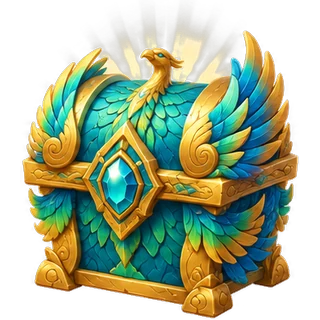
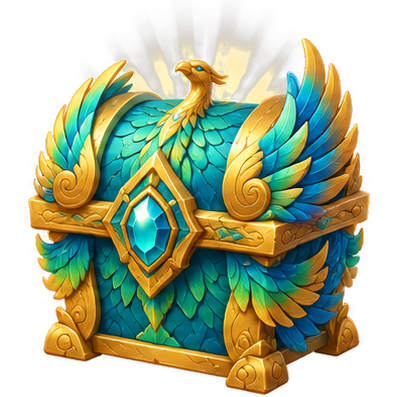
Art: keep generated images at native resolution (lossless sprites, q95 backgrounds)
Chests, badges and icons were downscaled and lossy-compressed; arenas were
resized to 1024. Now every asset keeps its source resolution; open chests are
scaled relative to the closed one so the chest does not jump when it opens.

Claude-Session: https://claude.ai/code/session_019XH8mXjFoYk68HCGK6M3sz

diff --git a/apps/client/src/legacy/16-chest-art.js b/apps/client/src/legacy/16-chest-art.js
@@ -17,7 +17,7 @@ function gemShape(c,x,y,r,col){c.save();c.shadowColor=col;c.shadowBlur=r*1.6;c.f
 function drawChest(c,x,y,s,tier,o){
   o=o||{};
   const art=artImg(o.open>0.35?`chest-${tier}-open`:`chest-${tier}`);
-  if(art){const bot=y+s*0.3,D=s*1.18;c.save();c.fillStyle='rgba(0,0,0,.38)';c.beginPath();c.ellipse(x,bot+s*0.015,s*0.5,s*0.06,0,0,TAU);c.fill();
+  if(art){const base=artImg(`chest-${tier}`)||art,bot=y+s*0.3,D=s*1.18*art.width/base.width;c.save();c.fillStyle='rgba(0,0,0,.38)';c.beginPath();c.ellipse(x,bot+s*0.015,s*0.5,s*0.06,0,0,TAU);c.fill();
     c.drawImage(art,x-D/2,bot-D*0.86,D,D);c.restore();return}
   const P=CHEST_PAL[tier],open=o.open||0,w=s,bh=s*0.38,lh=s*0.3,bx=x-w/2,bot=y+s*0.3,top=bot-bh,rad=s*0.05,lw=Math.max(1,s*0.016);
   const cbw=w*0.1,cbx=[bx+w*0.07,bx+w*0.93-cbw];

diff --git a/tools/art/cut.py b/tools/art/cut.py
@@ -76,37 +76,39 @@ def trim(im: Image.Image) -> Image.Image:
     return im.crop(box) if box else im
 
 
-def fit(im: Image.Image, size: int) -> Image.Image:
-    """Center on a transparent square canvas, scaled to fit."""
-    s = size / max(im.size)
-    im = im.resize((max(1, round(im.width * s)), max(1, round(im.height * s))), Image.LANCZOS)
+def fit(im: Image.Image) -> Image.Image:
+    """Center on a transparent square canvas at the item's native resolution (never rescaled)."""
+    size = max(im.size)
     c = Image.new('RGBA', (size, size))
     c.paste(im, ((size - im.width) // 2, (size - im.height) // 2), im)
     return c
 
 
-def save(im, name, q=88):
-    im.save(OUT / name, 'WEBP', quality=q, method=6)
+def save(im, name, q=None):
+    """Lossless WebP by default (sprites); photos-like backgrounds pass a high lossy quality."""
+    if q is None:
+        im.save(OUT / name, 'WEBP', lossless=True, quality=100, method=6)
+    else:
+        im.save(OUT / name, 'WEBP', quality=q, method=6)
     print(name, im.size)
 
 
 closed = split(remove_white(Image.open(SRC / 'chests-closed.png')))
 opened = split(remove_white(Image.open(SRC / 'chests-open.png')))
 assert len(closed) == 5 and len(opened) == 5, (len(closed), len(opened))
-# one shared scale per sheet so chest sizes stay comparable
 for i, (c, o) in enumerate(zip(closed, opened)):
-    save(fit(c, 320), f'chest-{i}.webp')
-    save(fit(o, 320), f'chest-{i}-open.webp')
+    save(fit(c), f'chest-{i}.webp')
+    save(fit(o), f'chest-{i}-open.webp')
 
 icons = split(remove_white(Image.open(SRC / 'icons.png')))
 assert len(icons) == 9, len(icons)
 names = ['league-0', 'league-1', 'league-2', 'league-3', 'league-4', 'coin', 'gem', 'trophy', 'gem-bag']
 for im, n in zip(icons, names):
-    save(fit(im, 256), n + '.webp')
+    save(fit(im), n + '.webp')
 
 for f in sorted(SRC.glob('arena-*.png')):
     idx = int(f.stem.split('-')[1]) - 1
-    save(Image.open(f).convert('RGB').resize((1024, 1024), Image.LANCZOS), f'arena-{idx}.webp', 84)
+    save(Image.open(f).convert('RGB'), f'arena-{idx}.webp', 95)
 
-save(Image.open(SRC / 'menu-bg.png').convert('RGB'), 'menu-bg.webp', 80)
-save(Image.open(SRC / 'splash.png').convert('RGB'), 'splash.webp', 82)
+save(Image.open(SRC / 'menu-bg.png').convert('RGB'), 'menu-bg.webp', 95)
+save(Image.open(SRC / 'splash.png').convert('RGB'), 'splash.webp', 95)
